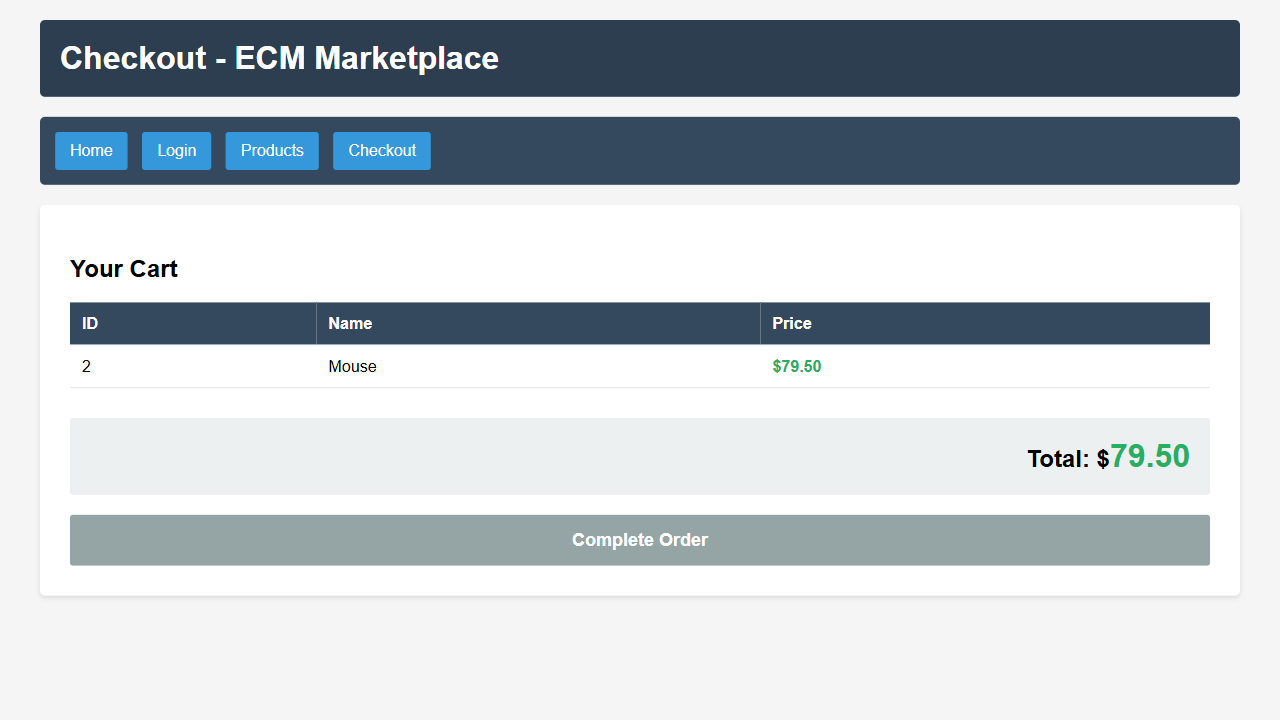
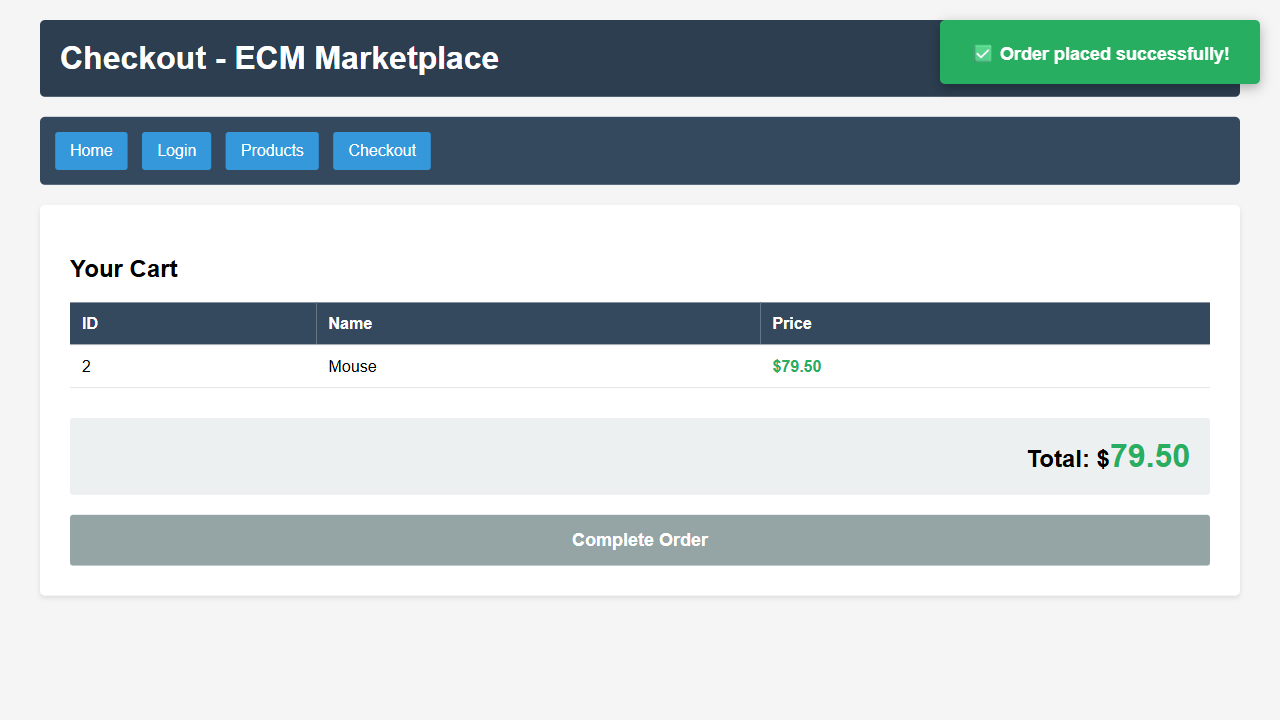
order successfully

Changed region(s): [[0.7188, 0.0306, 1.0, 0.1222]]

diff --git a/tests/FrontEnd/checkout.spec.ts b/tests/FrontEnd/checkout.spec.ts
@@ -39,6 +39,7 @@ test.describe.parallel('checkout', () => {
         }
         else {
             await page.click('#btnFinish');
+            await expect(page.locator('#msg')).toHaveText('Order placed successfully');
         }
         await page.screenshot({path: "Evidencias/checkout/CheckoutProdutoBotaoCompleteOrder.png"});
     });
@@ -56,7 +57,7 @@ test.describe.parallel('checkout', () => {
         }
         else {
             await page.click('#btnFinish');
-        }
+        }   
         //await page.locator('#btnFinish').click();
         await page.screenshot({path: "Evidencias/checkout/CheckoutProdutoBotaoCompleteOrder2.png"});
         

diff --git a/test-results/tests-FrontEnd-checkout-checkout-cheout-Unauthenticated-chromium/error-context.md b/test-results/tests-FrontEnd-checkout-checkout-cheout-Unauthenticated-chromium/error-context.md
@@ -1,0 +1,133 @@
+# Instructions
+
+- Following Playwright test failed.
+- Explain why, be concise, respect Playwright best practices.
+- Provide a snippet of code with the fix, if possible.
+
+# Test info
+
+- Name: tests\FrontEnd\checkout.spec.ts >> checkout >> cheout Unauthenticated
+- Location: tests\FrontEnd\checkout.spec.ts:46:9
+
+# Error details
+
+```
+Error: expect(locator).toHaveText(expected) failed
+
+Locator:  locator('#msg')
+Expected: "Please login to complete your order"
+Received: "User not authenticated"
+Timeout:  5000ms
+
+Call log:
+  - Expect "toHaveText" with timeout 5000ms
+  - waiting for locator('#msg')
+    4 × locator resolved to <div id="msg" class="" role="status"></div>
+      - unexpected value ""
+    5 × locator resolved to <div id="msg" role="status" class="error">User not authenticated</div>
+      - unexpected value "User not authenticated"
+
+```
+
+# Page snapshot
+
+```yaml
+- generic [active] [ref=e1]:
+  - banner [ref=e2]:
+    - heading "Checkout - ECM Marketplace" [level=1] [ref=e3]
+  - navigation [ref=e4]:
+    - link "Home" [ref=e5] [cursor=pointer]:
+      - /url: index.html
+    - link "Login" [ref=e6] [cursor=pointer]:
+      - /url: login.html
+    - link "Products" [ref=e7] [cursor=pointer]:
+      - /url: products.html
+    - link "Checkout" [ref=e8] [cursor=pointer]:
+      - /url: checkout.html
+  - generic [ref=e9]:
+    - heading "Your Cart" [level=2] [ref=e10]
+    - table [ref=e11]:
+      - rowgroup [ref=e12]:
+        - row "ID Name Price" [ref=e13]:
+          - columnheader "ID" [ref=e14]
+          - columnheader "Name" [ref=e15]
+          - columnheader "Price" [ref=e16]
+      - rowgroup [ref=e17]:
+        - row "2 Mouse $79.50" [ref=e18]:
+          - cell "2" [ref=e19]
+          - cell "Mouse" [ref=e20]
+          - cell "$79.50" [ref=e21]
+    - 'heading "Total: $79.50" [level=3] [ref=e23]'
+    - button "Complete Order" [ref=e24] [cursor=pointer]
+```
+
+# Test source
+
+```ts
+  1  | import { test, expect, webkit } from '@playwright/test';
+  2  | import { NavegationPage } from './navegationPage';
+  3  | 
+  4  | 
+  5  | test.beforeEach(async ({ page }) => {
+  6  |      const browser = await webkit.launch();
+  7  |          const context = await browser.newContext();
+  8  |          await page.goto('http://localhost:8080/');
+  9  |          await expect(page).toHaveURL('http://localhost:8080/');
+  10 |          await page.screenshot({path: "Evidencias/Checkout/BeforeEach.png"});
+  11 |   });
+  12 | 
+  13 | test.describe.parallel('checkout', () => {
+  14 | 
+  15 |     test('cheout Authenticated', async ({ page }) => {
+  16 |         const navigationPage = new NavegationPage(page);
+  17 |         await navigationPage.loginPage();
+  18 |         await page.locator('#username').fill('valid_user');
+  19 |         await page.locator('#password').fill('secret123');
+  20 |         const btnLogin = await page.locator('#btnLogin').isDisabled();
+  21 |         if (btnLogin === true) {
+  22 |             console.log('O botão de login está desabilitado, verifique os campos de preenchimento');
+  23 |         }
+  24 |         else {
+  25 |             await page.locator('#btnLogin').click();
+  26 |         }
+  27 |         const adicionar = await page.locator('[data-id="2"]').isDisabled();
+  28 |         if (adicionar === true) {
+  29 |             console.log('O botão de adicionar ao carrinho está desabilitado, verifique os campos de preenchimento');
+  30 |         }
+  31 |         else {
+  32 |             await page.click('[data-id="2"]');
+  33 |         }
+  34 |         await navigationPage.checkoutPage();
+  35 |         await page.screenshot({path: "Evidencias/checkout/CheckoutProdutoCorreto.png"});
+  36 |         const btnfinish = await page.locator('#btnFinish').isDisabled();
+  37 |         if (btnfinish === true) {
+  38 |             console.log('O botão de finalizar pedido está desabilitado, verifique os campos de preenchimento');
+  39 |         }
+  40 |         else {
+  41 |             await page.click('#btnFinish');
+  42 |         }
+  43 |         await page.screenshot({path: "Evidencias/checkout/CheckoutProdutoBotaoCompleteOrder.png"});
+  44 |     });
+  45 | 
+  46 |     test('cheout Unauthenticated', async ({ page }) => {
+  47 |         const navigationPage = new NavegationPage(page);
+  48 |         await navigationPage.productsPage();
+  49 |         await page.click('[data-id="2"]');
+  50 |         await page.screenshot({path: "Evidencias/checkout/CheckoutProdutoCorreto2.png"});
+  51 |         //await page.locator('[data-id="2"]').click();
+  52 |         await navigationPage.checkoutPage();
+  53 |         const btnfinish = await page.locator('#btnFinish').isDisabled();
+  54 |         if (btnfinish === true) {
+  55 |             console.log('O botão de finalizar pedido está desabilitado, verifique os campos de preenchimento');
+  56 |         }
+  57 |         else {
+  58 |             await page.click('#btnFinish');
+> 59 |         }   await expect(page.locator('#msg')).toHaveText('Please login to complete your order');
+     |                                                ^ Error: expect(locator).toHaveText(expected) failed
+  60 |         //await page.locator('#btnFinish').click();
+  61 |         await page.screenshot({path: "Evidencias/checkout/CheckoutProdutoBotaoCompleteOrder2.png"});
+  62 |         
+  63 |     });
+  64 | 
+  65 | });
+```
